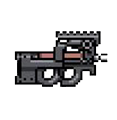
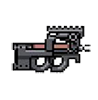
กำลังแก้ size จอ

diff --git a/src/application/xxx.java b/src/application/xxx.java
@@ -28,7 +28,7 @@ public class xxx  {
     public static ArrayList<Rectangle> bonuses = new ArrayList<>();
     Image        image = new Image("scout_fix.png");// specify character image
     Image        map = new Image("BG1.png");
-    Image        image2 =new Image("oldchar_fix.png");
+    Image        image2 =new Image("oldchar_fix2.png");
 
     ImageView    imageView = new ImageView(image);// show image
     ImageView    imageView2= new ImageView(image2);
@@ -69,7 +69,7 @@ public class xxx  {
 
         ImageView    imageView        = new ImageView(image);// show image
         ImageView    imageView2       = new ImageView(image2);
-        Sprite       weaponInterFace  = new Sprite("inWeapon.png",8,360);
+        Sprite       weaponInterFace  = new Sprite("inWeapon.png",0,300);
         Sprite       weaponInterFace2 = new Sprite("inWeapon.png",1425,390);
         Character    player           = new Character(imageView,1,100,3,25,10,
                                             0,3,2,2,10,1);
@@ -107,7 +107,7 @@ public class xxx  {
             x+=50;
         }
 
-        int []directionOffset={0,180,90,270};
+        int []directionOffset={0,140,70,210};
 
         //set status player
         player.setPosition(105,600);
@@ -130,22 +130,22 @@ public class xxx  {
                 count++;  count2++; countWeapon++; countAll++;
                 double Rate=count/10.0,Rate2=count2/10.0,RateWeapon=countWeapon/10.0,RateAll=countAll/10.0;
 
-                if (isPressed(KeyCode.W) && collision(player, blockList, "UP")&&player.getTranslateY()>76) {
+                if (isPressed(KeyCode.W) && collision(player, blockList, "UP")&&player.getTranslateY()>63) {
                     player.animation.play();
                     player.animation.setOffsetY(directionOffset[3]);
                     player.moveY(-player.getSpeed());
                     player.direction=3;
-                } else if (isPressed(KeyCode.S) && collision(player, blockList, "DOWN")&&player.getTranslateY()+73<scene.getHeight()-76) {
+                } else if (isPressed(KeyCode.S) && collision(player, blockList, "DOWN")&&player.getTranslateY()+70<scene.getHeight()-63) {
                     player.animation.play();
                     player.animation.setOffsetY(directionOffset[0]);
                     player.moveY(player.getSpeed());
                     player.direction=0;
-                } else if (isPressed(KeyCode.D) && collision(player, blockList, "RIGHT")&&player.getTranslateX()+73<scene.getWidth()-95) {
+                } else if (isPressed(KeyCode.D) && collision(player, blockList, "RIGHT")&&player.getTranslateX()+57<scene.getWidth()-80) {
                     player.animation.play();
                     player.animation.setOffsetY(directionOffset[2]);
                     player.moveX(player.getSpeed());
                     player.direction=2;
-                } else if (isPressed(KeyCode.A) && collision(player, blockList, "LEFT")&&player.getTranslateX()>95) {
+                } else if (isPressed(KeyCode.A) && collision(player, blockList, "LEFT")&&player.getTranslateX()>63) {
                     player.animation.play();
                     player.animation.setOffsetY(directionOffset[1]);
                     player.moveX(-player.getSpeed());
@@ -165,22 +165,22 @@ public class xxx  {
                 }
                 //////////////////control player 2
 
-                if (isPressed(KeyCode.UP) && collision(player2, blockList, "UP")&&player2.getTranslateY()>76) {
+                if (isPressed(KeyCode.UP) && collision(player2, blockList, "UP")&&player2.getTranslateY()>63) {
                     player2.animation.play();
                     player2.animation.setOffsetY(directionOffset[3]);
                     player2.moveY(-player2.getSpeed());
                     player2.direction=3;
-                } else if (isPressed(KeyCode.DOWN) && collision(player2, blockList, "DOWN")&&player2.getTranslateY()+73<scene.getHeight()-76) {
+                } else if (isPressed(KeyCode.DOWN) && collision(player2, blockList, "DOWN")&&player2.getTranslateY()+70<scene.getHeight()-63) {
                     player2.animation.play();
                     player2.animation.setOffsetY(directionOffset[0]);
                     player2.moveY(player2.getSpeed());
                     player2.direction=0;
-                } else if (isPressed(KeyCode.RIGHT) && collision(player2, blockList, "RIGHT")&&player2.getTranslateX()+73<scene.getWidth()-95) {
+                } else if (isPressed(KeyCode.RIGHT) && collision(player2, blockList, "RIGHT")&&player2.getTranslateX()+57   <scene.getWidth()-80) {
                     player2.animation.play();
                     player2.animation.setOffsetY(directionOffset[2]);
                     player2.moveX(player2.getSpeed());
                     player2.direction=2;
-                } else if (isPressed(KeyCode.LEFT) && collision(player2, blockList, "LEFT")&&player2.getTranslateX()>95) {
+                } else if (isPressed(KeyCode.LEFT) && collision(player2, blockList, "LEFT")&&player2.getTranslateX()>63) {
                     player2.animation.play();
                     player2.animation.setOffsetY(directionOffset[1]);
                     player2.moveX(-player2.getSpeed());

diff --git a/src/application/Character.java b/src/application/Character.java
@@ -15,8 +15,8 @@ public class Character extends Pane {
 	int columns = 4;
 	int offsetX = 0;
 	int offsetY = 0;
-	int width = 74;
-	int height = 90;
+	int width = 57;
+	int height = 70;
 
 	//status of player
 	private int type;
